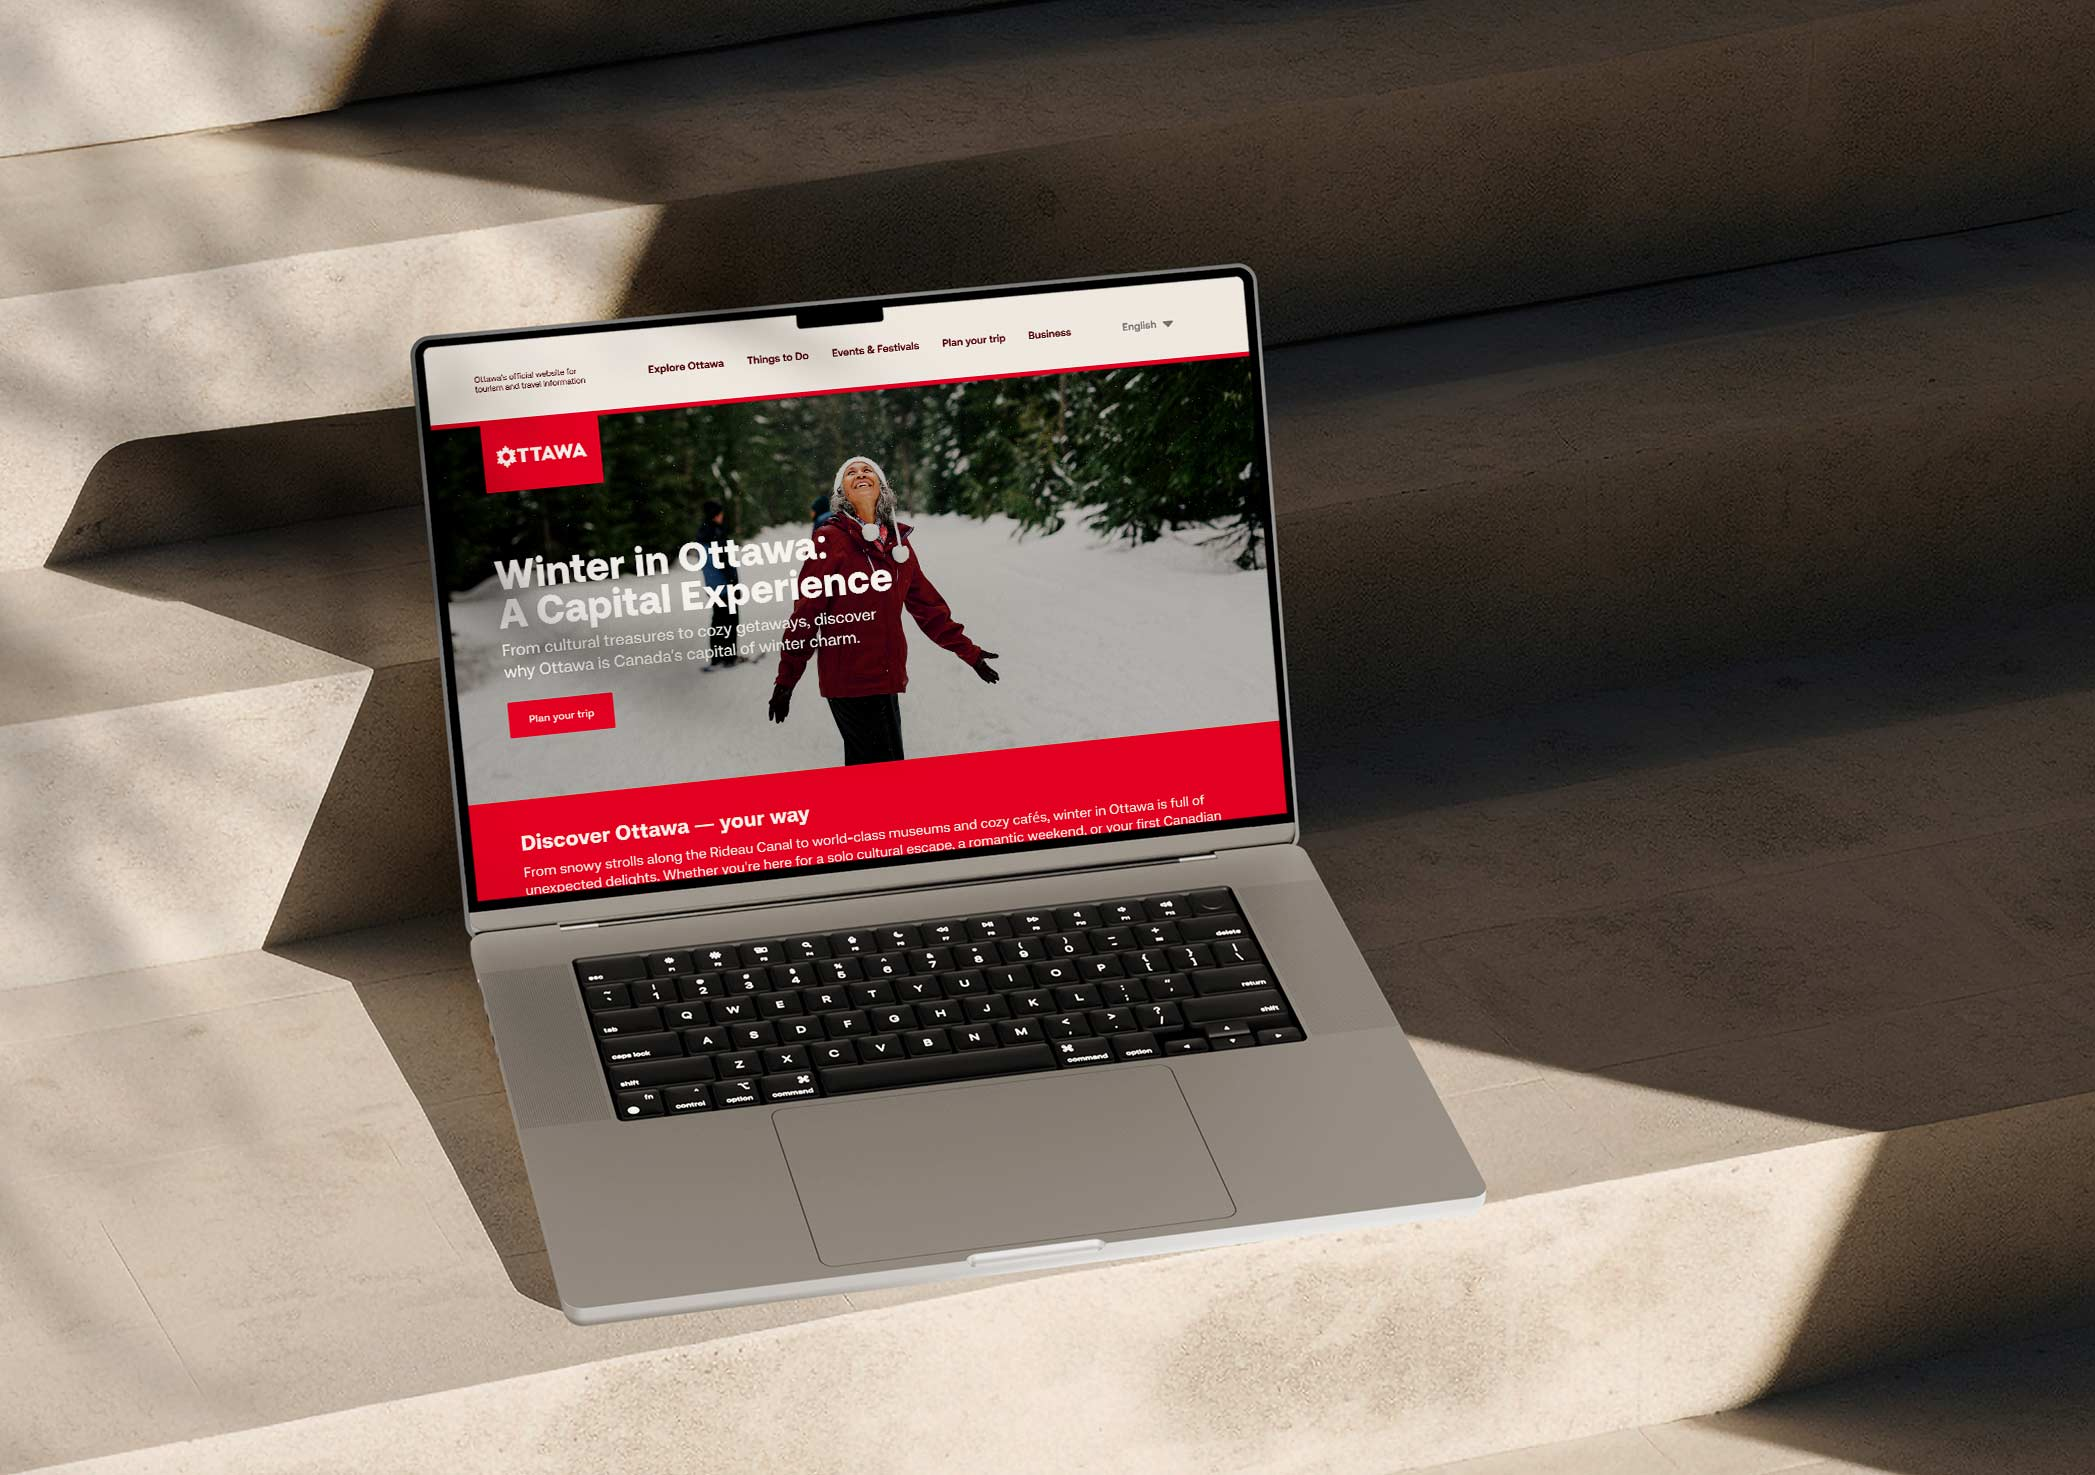
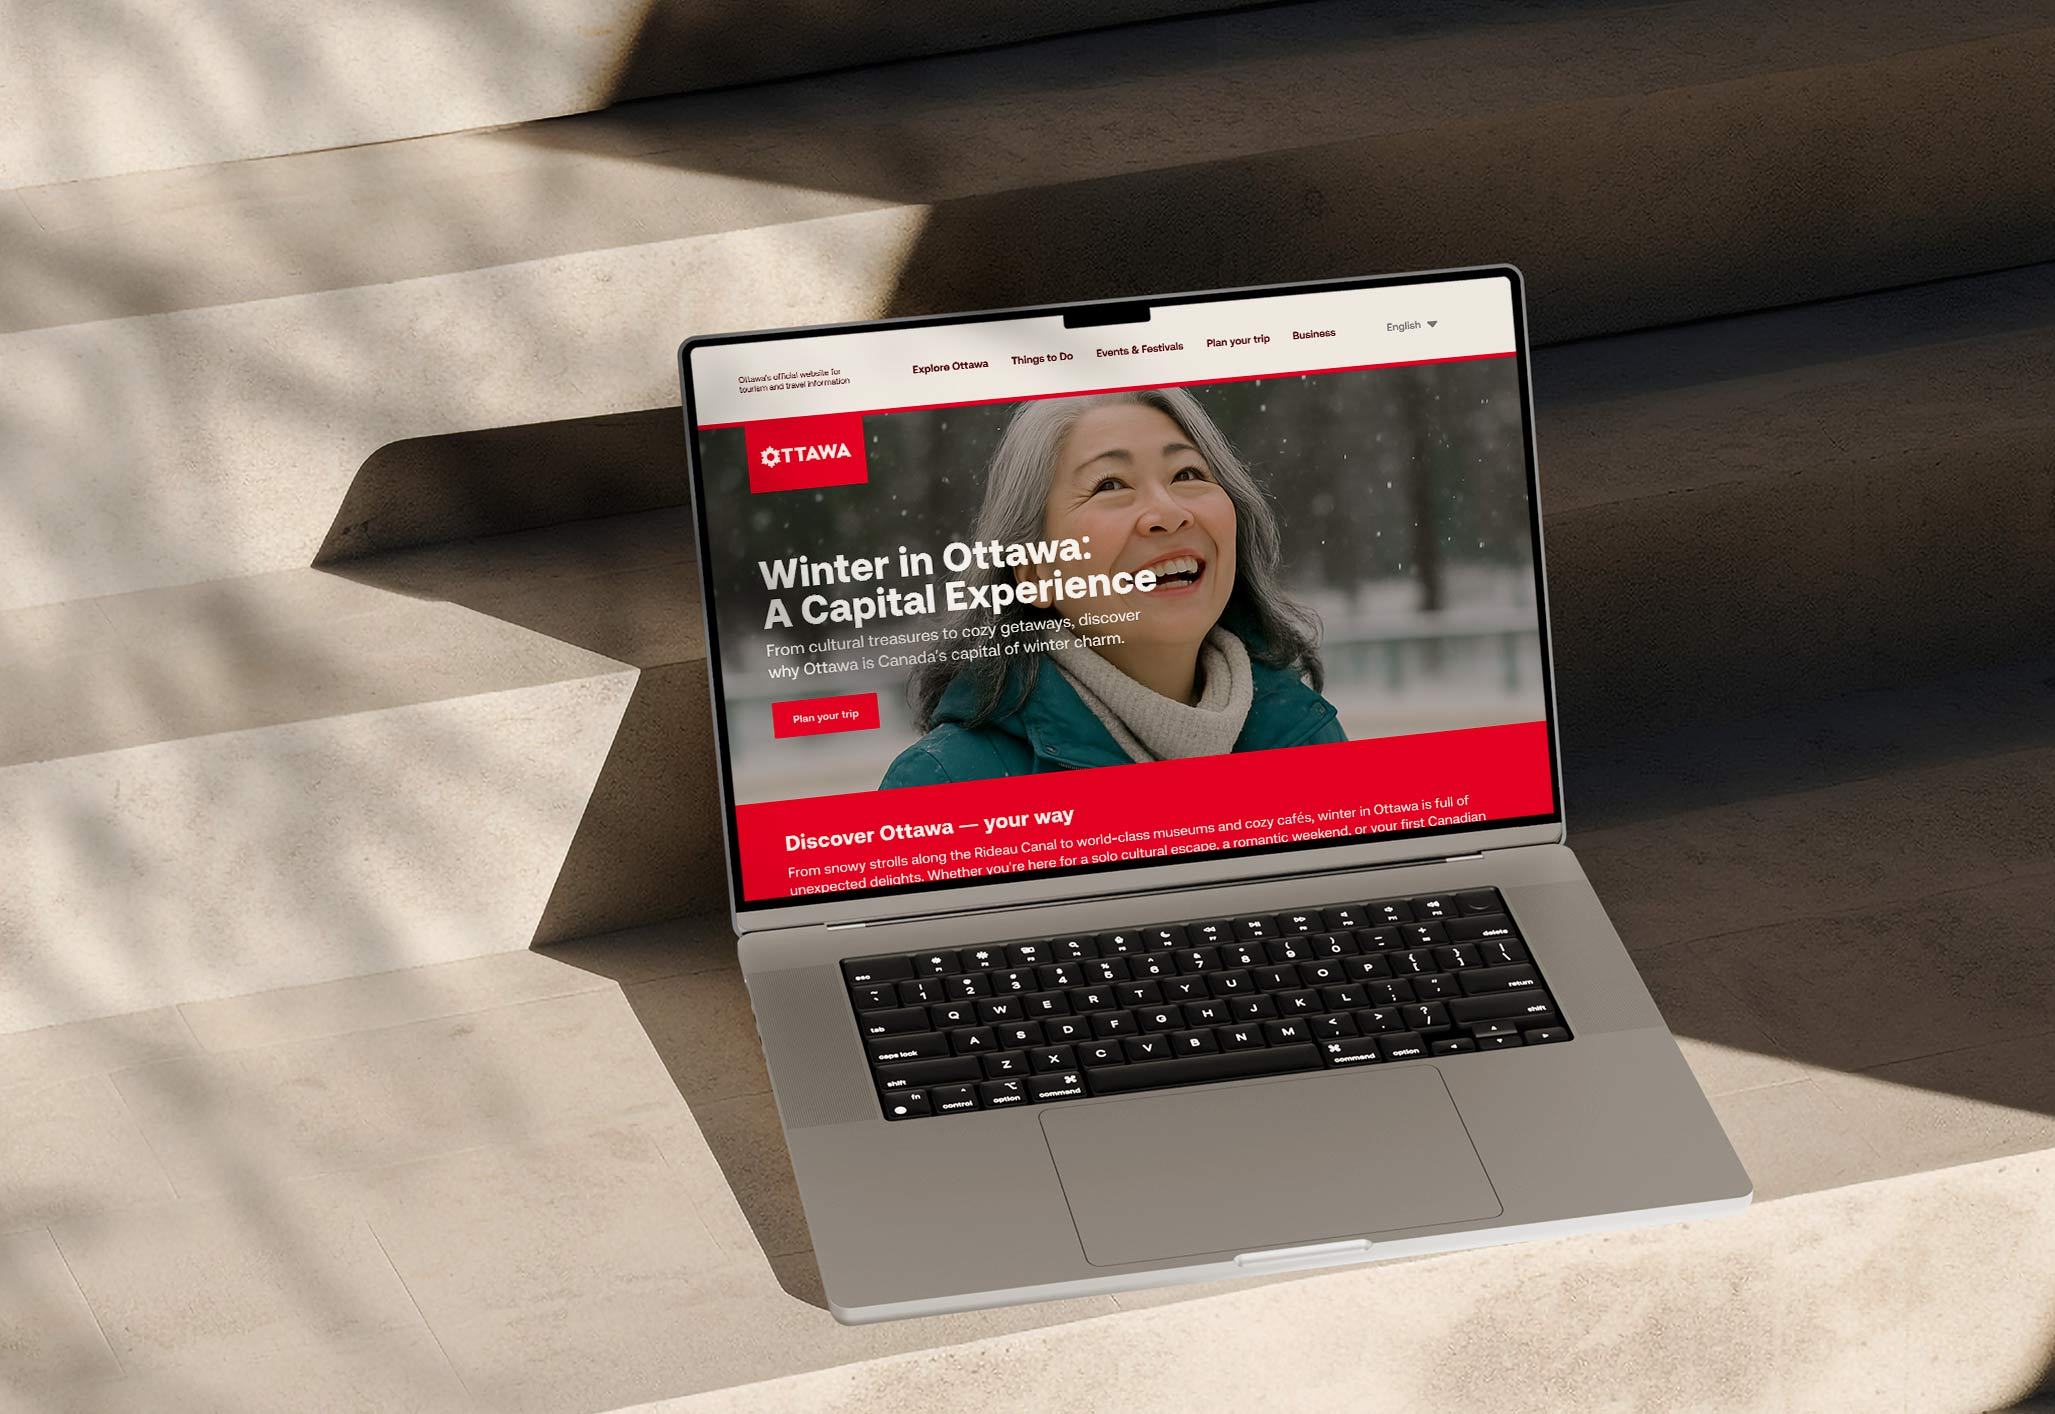
new imgs

diff --git a/ottawatourism.html b/ottawatourism.html
@@ -59,7 +59,7 @@
 
         <img class="flex-2 space-top" src="img/JF_WEB_OttTourism_1.jpg" alt="">
           <p class="small-2 space-after space-top-small2">[1] A homepage design that highlights Ottawa’s unique character through each of the four distinct seasons.</p>
-        <img class="flex-2 space-top-small" src="img/JF_WEB_OttTourism_2.jpg" alt="">
+        <img class="flex-2 space-top-small" src="img/JF_WEB_OttTourism_2.png" alt="">
           <p class="small-2 space-after space-top-small2">[2] The layout highlights relevant content based on user goals, ensuring each persona can navigate with ease.</p>
         <img class="flex-2 space-top-small" src="img/JF_WEB_OttTourism_3.jpg" alt="">
           <p class="small-2 space-after space-top-small2">[3] Content has been restructured around user intent—grouping events, guides, and seasonal highlights into clear, intuitive categories.</p>
